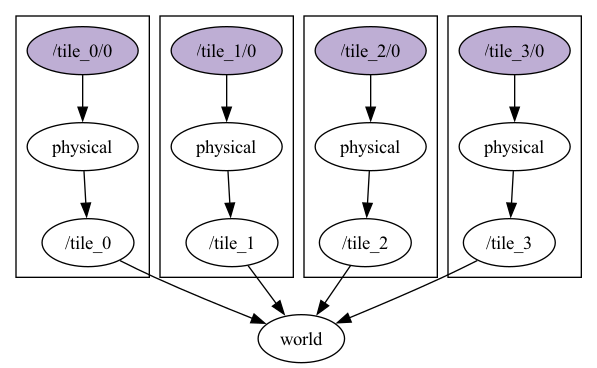
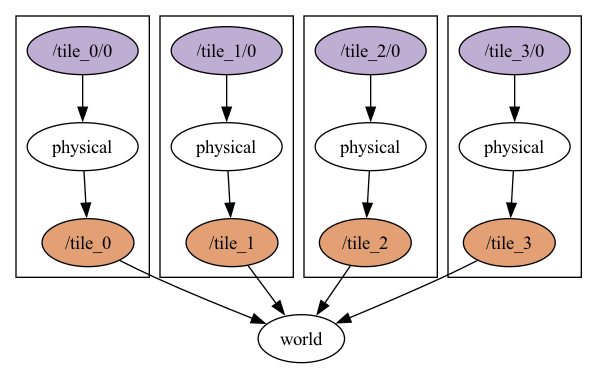
Make multiscale systems orange

diff --git a/transform_graph.py b/transform_graph.py
@@ -26,6 +26,9 @@ for image_path in coll.members:
     image_graph = graphviz.Digraph(
         name=f"cluster_{image_path}",  # node_attr={"shape": "box"}
     )
+    # Add this image as an implicit coordinate system
+    image_graph.node(f"/{image_path}", fillcolor="#e3a074", style="filled")
+
     for multiscales in image.ome_attributes.multiscales:
         # Systems in multiscale images
         for system in multiscales.coordinateSystems:
@@ -37,12 +40,12 @@ for image_path in coll.members:
                     f"/{image_path}/{transform.input.removeprefix('/')}",
                     f"/{image_path}/{transform.output.removeprefix('/')}",
                 )
-            # Add (identity) transform between first coordinate system and path to
-            # this multiscales array, since they mean the same thing
-            image_graph.edge(
-                f"/{image_path}/{multiscales.coordinateSystems[0].name}",
-                f"/{image_path}",
-            )
+        # Add (identity) transform between first coordinate system and path to
+        # this multiscales array, since they mean the same thing
+        image_graph.edge(
+            f"/{image_path}/{multiscales.coordinateSystems[0].name}",
+            f"/{image_path}",
+        )
 
     # (implicit) Array coordinate systems
     for array_path in image.members:
